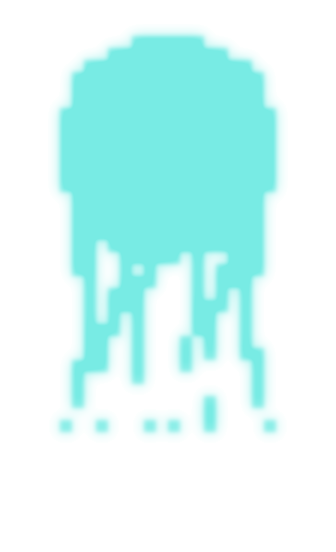
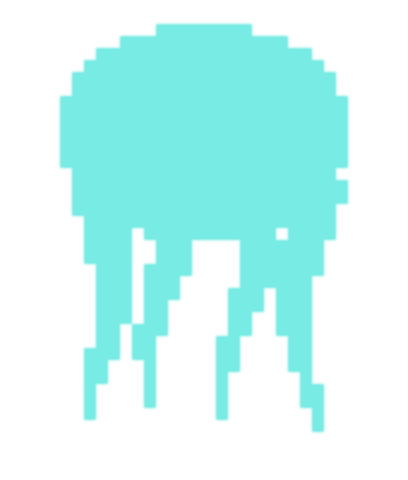
Wisp of the Sea: bolder, more separated silhouette so it actually reads at real scale
The first pass looked right zoomed into a debug crop but, at the figure's true on-screen size,
read as (the user's words) 'a mono-color floating ball dripping something': six thin tentacles a
couple of pixels apart merged into a drippy smear, a 3-unit-wide lantern vanished entirely, and
PaintGlow's wide blur (radius 6) bridged every gap between parts into one soft blob, erasing the
ink linework underneath it.

Redesigned bolder instead of just re-tuning numbers: four thick tentacles with real gaps between
them instead of six thin ones, a wide flat dome instead of a near-circular ball, ink slits carved
into the hem so the tentacle roots read as separate before they even start trailing, and a lantern
roughly twice the size so it survives being drawn at ~70px tall. Also tightened PaintGlow's blur
(radius 6/2 down to 2/1, lower alpha) so it haloes the true silhouette instead of fogging over the
gaps that give it shape - a general fix, not Wisp-specific, since any future glow-layer class would
hit the same bridging problem.

Verified: --verify and --flats-ui-test 20 pass; --gallery output checked at both the debug crop's
zoom level and the figure's actual real-scale size in the rendered page.

Changed region(s): [[0.119, 0.0312, 0.8631, 0.9062]]

diff --git a/src/chargen.cpp b/src/chargen.cpp
@@ -194,12 +194,16 @@ Image PaintGlow(const std::vector<std::string>& rowsIn, Color glowColor) {
         int gx = std::clamp(px / SC, 0, gw - 1), gy = std::clamp(py / SC, 0, gh - 1);
         hi[py * W + px] = mask[gy * gw + gx];
     }
+    // A tight halo, not a fog: earlier this used a much wider blur (radius 6) that bridged the gaps between
+    // separate silhouette parts (e.g. neighbouring tentacles) into one glowing blob, erasing exactly the shape
+    // definition the ink linework was drawing. Keeping the blur small lets the glow brighten the true silhouette
+    // without smearing across the dark gaps that separate its parts.
     std::vector<float> soft = hi, core = hi;
-    BoxBlur(soft, W, H, 6, 3);
-    BoxBlur(core, W, H, 2, 2);
+    BoxBlur(soft, W, H, 2, 2);
+    BoxBlur(core, W, H, 1, 1);
     std::vector<unsigned char> px(W * H * 4, 0);
     for (int i = 0; i < W * H; i++) {
-        float a = std::clamp(soft[i] * 0.75f + core[i] * 0.55f, 0.0f, 1.0f);
+        float a = std::clamp(soft[i] * 0.45f + core[i] * 0.65f, 0.0f, 1.0f);
         if (a < 0.02f) continue;
         px[i * 4 + 0] = glowColor.r; px[i * 4 + 1] = glowColor.g; px[i * 4 + 2] = glowColor.b;
         px[i * 4 + 3] = (unsigned char)(a * 255);
@@ -611,48 +615,53 @@ std::vector<ClassSpec> CrewSpecs() {
         c.pal['L'] = {142, 106, 48, 255};    // lantern brass, shadowed / cogs
         c.pal['c'] = {58, 52, 45, 255};      // lantern chain and rings
 
-        const float cx = 13;
-        Grid g(26, 44);
-        // the bell: a rounded dome, shaded darker on its underside so it reads as a hollow glowing form
-        g.Ellipse(cx, 11, 9.2f, 8.4f, 't');
-        g.Ellipse(cx, 13.6f, 8.6f, 7.0f, 'T');
-        g.Ellipse(cx, 8.6f, 8.6f, 6.6f, 't');   // relights the crown over the shadow pass so the dome apex stays bright
+        // Drawn much bolder than the first pass: at the figure's actual on-screen size (tens of pixels, not a
+        // zoomed-in debug crop) six thin, closely-spaced tentacles and a fine 3-unit-wide lantern simply vanished
+        // into a single glowing smudge - "a mono-colour floating ball dripping something". Fewer, thicker,
+        // further-apart parts, a wider flatter dome, and ink slits pre-separating the tentacle roots all read at
+        // a glance; fine detail that only shows up zoomed in doesn't count for anything here.
+        const float cx = 16;
+        Grid g(32, 38);
+        // the bell: wide and flat like a real jellyfish cap, not a round ball - shaded darker underneath so it
+        // reads as a hollow glowing form, relit across the crown so the apex stays bright
+        g.Ellipse(cx, 10, 12.5f, 8.0f, 't');
+        g.Ellipse(cx, 13.0f, 11.5f, 6.0f, 'T');
+        g.Ellipse(cx, 7.0f, 11.0f, 6.0f, 't');
         // faint darker patterning inside the glow (echoes the reference's subtle mask-like shading, not real eyes)
-        g.Ellipse(cx - 3.0f, 8.4f, 1.3f, 1.7f, 'k');
-        g.Ellipse(cx + 3.0f, 8.4f, 1.3f, 1.7f, 'k');
+        g.Ellipse(cx - 4.0f, 7.5f, 1.6f, 2.0f, 'k');
+        g.Ellipse(cx + 4.0f, 7.5f, 1.6f, 2.0f, 'k');
+        // ink slits between where each tentacle will start, so the hem reads as gathered/split rather than solid
+        for (float gap : {cx - 6.0f, cx, cx + 6.0f}) g.Capsule(gap, 12.5f, gap, 16.5f, 0.55f, 0.3f, 'k');
 
-        // the spectral lantern, hanging inside the bell on a short chain, with two small cogs either side
-        g.Rect(cx - 0.3f, 10.6f, cx + 0.3f, 11.4f, 'c');
-        g.Ellipse(cx, 10.8f, 0.5f, 0.5f, 'c');
-        g.Rect(cx - 2.0f, 11.4f, cx + 2.0f, 12.3f, 'L');
-        g.Rect(cx - 1.6f, 12.3f, cx + 1.6f, 16.2f, 'l');
-        g.Ellipse(cx, 14.2f, 0.7f, 1.1f, 'w');
-        g.Ellipse(cx - 2.6f, 14.0f, 0.7f, 0.7f, 'L'); g.Ellipse(cx - 2.6f, 14.0f, 0.25f, 0.25f, 'c');
-        g.Ellipse(cx + 2.6f, 13.2f, 0.6f, 0.6f, 'L'); g.Ellipse(cx + 2.6f, 13.2f, 0.2f, 0.2f, 'c');
+        // the spectral lantern: much bigger than the first pass so it actually reads as an object, not a speck
+        g.Rect(cx - 0.35f, 8.6f, cx + 0.35f, 9.6f, 'c');
+        g.Ellipse(cx, 8.8f, 0.6f, 0.6f, 'c');
+        g.Rect(cx - 2.6f, 9.6f, cx + 2.6f, 10.8f, 'L');
+        g.Rect(cx - 2.0f, 10.8f, cx + 2.0f, 15.4f, 'l');
+        g.Ellipse(cx, 12.8f, 1.0f, 1.6f, 'w');
+        g.Ellipse(cx - 3.2f, 12.6f, 0.9f, 0.9f, 'L'); g.Ellipse(cx - 3.2f, 12.6f, 0.3f, 0.3f, 'c');
+        g.Ellipse(cx + 3.2f, 11.6f, 0.75f, 0.75f, 'L'); g.Ellipse(cx + 3.2f, 11.6f, 0.25f, 0.25f, 'c');
 
-        // trailing tentacles: six wavy strands hanging from the bell's rim, tapering to a fine point, with a
-        // couple of bright bioluminescent patches along each one
+        // four wavy tentacles - thick at the root, real gaps between them, tapering to a point - with a bright
+        // bioluminescent patch partway down each one
         struct Tendril { float baseX, amp, phase, rTop, rBot; };
         const Tendril tendrils[] = {
-            {cx - 7.5f, 1.1f, 0.0f, 1.05f, 0.28f}, {cx - 4.6f, 1.5f, 1.4f, 0.95f, 0.26f},
-            {cx - 1.6f, 0.9f, 2.6f, 0.85f, 0.22f}, {cx + 1.6f, 1.2f, 0.7f, 0.85f, 0.22f},
-            {cx + 4.6f, 1.6f, 2.0f, 0.95f, 0.26f}, {cx + 7.5f, 1.0f, 3.3f, 1.05f, 0.28f},
+            {cx - 9.0f, 1.4f, 0.0f, 2.3f, 0.6f}, {cx - 3.0f, 1.7f, 1.8f, 2.0f, 0.5f},
+            {cx + 3.0f, 1.7f, 0.9f, 2.0f, 0.5f}, {cx + 9.0f, 1.4f, 2.7f, 2.3f, 0.6f},
         };
-        const float y0 = 18, y1 = 42;
+        const float y0 = 15, y1 = 34;
         for (const Tendril& td : tendrils) {
             for (int yy = (int)y0; yy <= (int)y1; yy++) {
                 float t = (yy - y0) / (y1 - y0);
-                float x = td.baseX + td.amp * sinf(t * 5.5f + td.phase);
+                float x = td.baseX + td.amp * sinf(t * 4.0f + td.phase);
                 float r = td.rTop + (td.rBot - td.rTop) * t;
                 g.Ellipse(x, (float)yy, r, r, 't');
                 g.Ellipse(x + r * 0.4f, (float)yy, r * 0.5f, r * 0.5f, 'T');
             }
-            for (int gi = 0; gi < 2; gi++) {
-                float t = 0.32f + gi * 0.36f;
-                float yy = y0 + t * (y1 - y0);
-                float x = td.baseX + td.amp * sinf(t * 5.5f + td.phase);
-                g.Ellipse(x, yy, 0.55f, 0.55f, 'w');
-            }
+            float t = 0.45f;
+            float yy = y0 + t * (y1 - y0);
+            float x = td.baseX + td.amp * sinf(t * 4.0f + td.phase);
+            g.Ellipse(x, yy, 0.85f, 0.85f, 'w');
         }
         c.body = g.rows;
         out.push_back(c);
